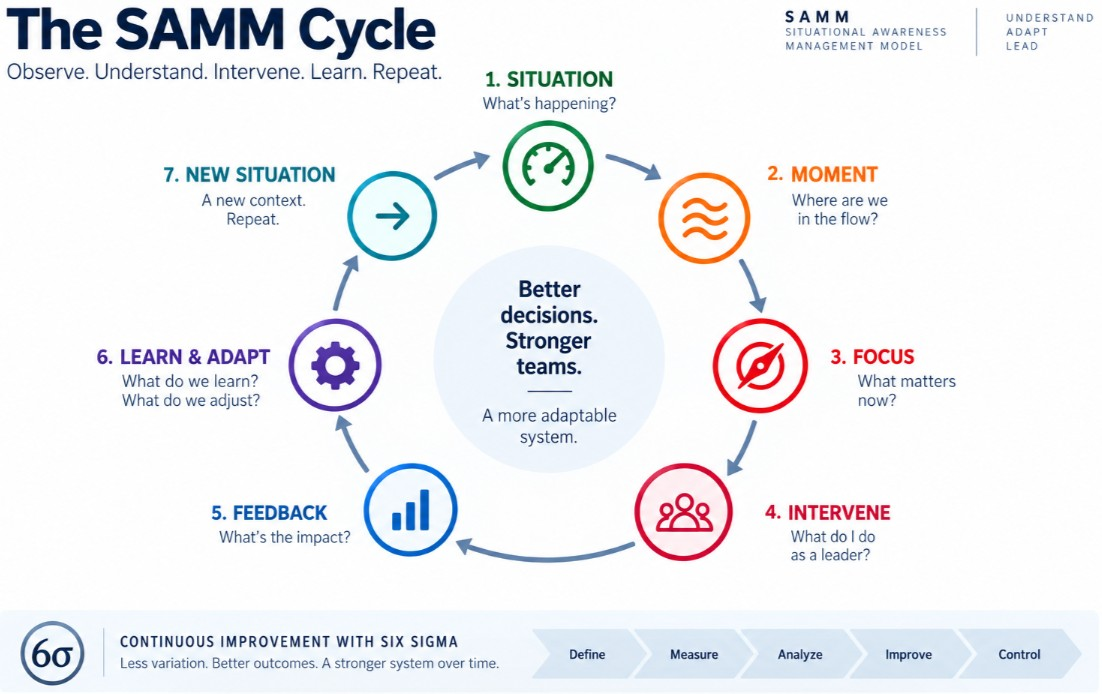
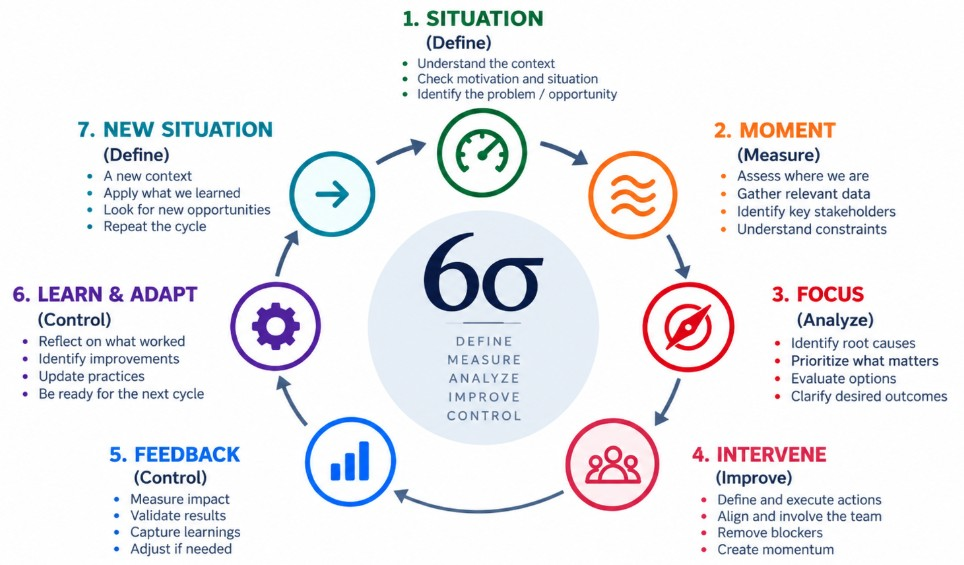
new post update

diff --git a/_posts/2026-09-15-attention-is-all-you-need-from-situation-to-intervention.md b/_posts/2026-09-15-attention-is-all-you-need-from-situation-to-intervention.md
@@ -133,10 +133,6 @@ That information becomes feedback, feedback becomes learning, and learning chang
 
 ---
 
-The roadmap therefore becomes a continuous adaptive loop:
-
-> **Situation → Moment → OODA Focus → Intervention → Push/Pull → Feedback → Learn → New Situation**
-
 We observe the system, understand what it needs, choose where to focus our attention and decide how to intervene. We then observe the consequences and use that information to understand the system again.
 
 There is no final state. **There is only continuous adaptation.**
@@ -145,25 +141,9 @@ There is no final state. **There is only continuous adaptation.**
 
 ## From the Model to Practice
 
-The diagrams in this article deliberately expose much of the reasoning behind SAMM: situations, moments, OODA, leadership interventions, Push/Pull and continuous learning.
-
-In practice, however, using the model should not require consciously navigating all of these layers every day.
-
 Once this series has completed the foundations of SAMM, we will translate them into a **simplified and practical way of working with the model**. We will explore how to identify situations, work with SAMM collectively with the team and individually with each person, define meaningful interventions, follow their effects and use continuous feedback to support both individual and team development.
 
 The objective is not to introduce new ceremonies or add another layer of management bureaucracy. SAMM should provide a lightweight structure that can coexist with the conversations, 1:1s, retrospectives and working practices teams already use.
-
-Behind the entire roadmap lies a much simpler sequence:
-
-> **Understand the situation.**
->
-> **Focus your attention.**
->
-> **Choose how to intervene.**
->
-> **Observe the result.**
->
-> **Learn and repeat.**
 
 Understanding the model requires depth.
 
